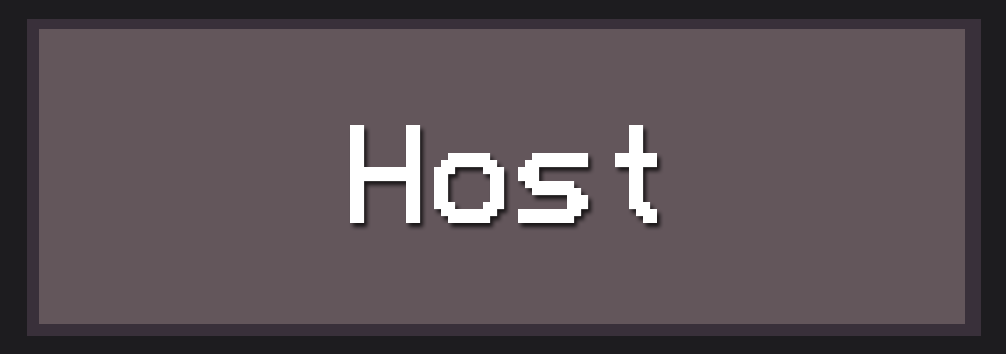
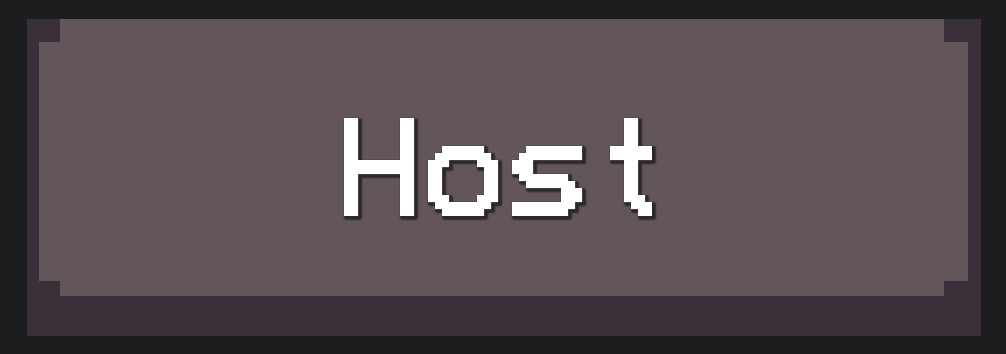
Did a not so shitty art job.

Changed region(s): [[0.0308, 0.7768, 0.9861, 0.9322], [0.339, 0.3107, 0.6779, 0.6525], [0.0308, 0.0311, 0.9861, 0.1243]]

diff --git a/core/src/com/csharp/game/screens/ui/screens/JoinGameScreen.java b/core/src/com/csharp/game/screens/ui/screens/JoinGameScreen.java
@@ -8,6 +8,7 @@ import com.badlogic.gdx.graphics.g2d.freetype.FreeTypeFontGenerator;
 import com.badlogic.gdx.scenes.scene2d.Actor;
 import com.badlogic.gdx.scenes.scene2d.InputEvent;
 import com.badlogic.gdx.scenes.scene2d.InputListener;
+import com.badlogic.gdx.scenes.scene2d.ui.Image;
 import com.badlogic.gdx.scenes.scene2d.ui.ImageButton;
 import com.badlogic.gdx.scenes.scene2d.ui.TextField;
 import com.badlogic.gdx.scenes.scene2d.utils.ChangeListener;
@@ -31,7 +32,7 @@ public class JoinGameScreen extends MenuScreen implements IMenuScreen {
 
     @Override
     public void loadTextures() {
-        textures = new HashMap<>();
+        textures.put("gameTitle", new Texture(Gdx.files.internal("menu/GameTitle.png")));
         textures.put("menuItemBack_default", new Texture(Gdx.files.internal("keys/EscKey_default.png")));
         textures.put("menuItemBack_pressed", new Texture(Gdx.files.internal("keys/EscKey_pressed.png")));
         textures.put("joinButton_default", new Texture(Gdx.files.internal("menu/joinButton_default.png")));
@@ -55,11 +56,16 @@ public class JoinGameScreen extends MenuScreen implements IMenuScreen {
         joinButtonStyle.down = new TextureRegionDrawable(new TextureRegion(textures.get("joinButton_pressed")));
         joinButtonStyle.over = new TextureRegionDrawable(new TextureRegion(textures.get("joinButton_pressed")));
 
+        final com.badlogic.gdx.scenes.scene2d.ui.Image titleImage = new Image(textures.get("gameTitle"));
         final TextField playerNameField = new TextField("Enter name", defaultTextFieldStyle);
         final TextField ipField = new TextField("IP address", defaultTextFieldStyle);
         final TextField gamekeyField = new TextField("Gamekey", defaultTextFieldStyle);
         final ImageButton backButton = new ImageButton(backButtonStyle);
         final ImageButton joinButton = new ImageButton(joinButtonStyle);
+
+        playerNameField.setAlignment(Align.center);
+        ipField.setAlignment(Align.center);
+        gamekeyField.setAlignment(Align.center);
 
         playerNameField.addListener(new InputListener() {
             public boolean touchDown(InputEvent event, float x, float y, int pointer, int button) {
@@ -108,9 +114,10 @@ public class JoinGameScreen extends MenuScreen implements IMenuScreen {
         });
 
         table.top().add(backButton).size(80, 50).expandX().align(Align.right).padTop(20).padRight(20).row();
-        table.add(playerNameField).padTop(200).row();
+        table.top().add(titleImage).padTop(20).padBottom(10).row();
+        table.add(playerNameField).padTop(140).row();
         table.add(ipField).padTop(20).row();
         table.add(gamekeyField).pad(20).row();
-        table.add(joinButton).size(150, 60).padTop(50);
+        table.add(joinButton).size(100, 40).padTop(20);
     }
 }

diff --git a/core/src/com/csharp/game/screens/ui/screens/SecondMenuScreen.java b/core/src/com/csharp/game/screens/ui/screens/SecondMenuScreen.java
@@ -29,7 +29,7 @@ public class SecondMenuScreen extends MenuScreen implements IMenuScreen {
 
     @Override
     public void loadTextures() {
-        textures = new HashMap<>();
+        textures.put("gameTitle", new Texture(Gdx.files.internal("menu/GameTitle.png")));
         textures.put("menuItemBack_default", new Texture(Gdx.files.internal("keys/EscKey_default.png")));
         textures.put("menuItemBack_pressed", new Texture(Gdx.files.internal("keys/EscKey_pressed.png")));
         textures.put("joinGameButton_default", new Texture(Gdx.files.internal("menu/joinGameButton_default.png")));
@@ -58,6 +58,7 @@ public class SecondMenuScreen extends MenuScreen implements IMenuScreen {
         backButtonStyle.down = new TextureRegionDrawable(new TextureRegion(textures.get("menuItemBack_pressed")));
         backButtonStyle.over = new TextureRegionDrawable(new TextureRegion(textures.get("menuItemBack_pressed")));
 
+        final com.badlogic.gdx.scenes.scene2d.ui.Image titleImage = new Image(textures.get("gameTitle"));
         final ImageButton joinGameButton = new ImageButton(joinGameButtonStyle);
         final ImageButton hostGameButton = new ImageButton(hostGameButtonStyle);
         final ImageButton backButton = new ImageButton(backButtonStyle);
@@ -88,8 +89,9 @@ public class SecondMenuScreen extends MenuScreen implements IMenuScreen {
         });
 
         table.top().add(backButton).size(80, 50).expandX().align(Align.right).padTop(20).padRight(20).row();
-        table.add(text).padTop(150).row();
-        table.add(joinGameButton).size(300, 100).padTop(50).row();
-        table.add(hostGameButton).size(300, 100).padTop(20);
+        table.top().add(titleImage).padTop(20).padBottom(10).row();
+        table.add(text).padTop(120).row();
+        table.add(joinGameButton).size(200, 65).padTop(50).row();
+        table.add(hostGameButton).size(200, 65).padTop(20);
     }
 }

diff --git a/core/src/com/csharp/game/screens/ui/screens/MainMenuScreen.java b/core/src/com/csharp/game/screens/ui/screens/MainMenuScreen.java
@@ -35,7 +35,6 @@ public class MainMenuScreen extends MenuScreen implements IMenuScreen {
 
     @Override
     public void loadTextures() {
-        textures = new HashMap<>();
         textures.put("gameTitle", new Texture(Gdx.files.internal("menu/GameTitle.png")));
         textures.put("menuItemSP_default", new Texture(Gdx.files.internal("menu/menuItemSP_default.png")));
         textures.put("menuItemSP_pressed", new Texture(Gdx.files.internal("menu/menuItemSP_pressed.png")));
@@ -104,7 +103,7 @@ public class MainMenuScreen extends MenuScreen implements IMenuScreen {
         });
 
         //Drawing the UI components (this is in chronological order)
-        table.top().padTop(20);
+        table.top().padTop(90).row();
         table.add(titleImage).row();
         table.add(creatorsLabel0).pad(10).row();
         table.add(creatorsLabel1).row();

diff --git a/core/src/com/csharp/game/screens/ui/screens/MenuScreen.java b/core/src/com/csharp/game/screens/ui/screens/MenuScreen.java
@@ -10,6 +10,8 @@ import com.badlogic.gdx.scenes.scene2d.ui.Table;
 import com.badlogic.gdx.utils.viewport.FillViewport;
 import com.badlogic.gdx.utils.viewport.Viewport;
 import com.csharp.game.RythemDiscord;
+
+import java.util.HashMap;
 import java.util.Map;
 
 public abstract class MenuScreen implements Screen {
@@ -106,10 +108,11 @@ public abstract class MenuScreen implements Screen {
         pixmap.fill();
         skin.add("white", new Texture(pixmap));
         skin.add("default", new BitmapFont());
+        textures = new HashMap<>();
 
         //table preferences
         table.setFillParent(true);
         stage.addActor(table);
-        table.setDebug(true); //debugging the ui
+        //table.setDebug(true); //debugging the ui
     }
 }

diff --git a/core/src/com/csharp/game/screens/ui/screens/LoginScreen.java b/core/src/com/csharp/game/screens/ui/screens/LoginScreen.java
@@ -30,7 +30,6 @@ public class LoginScreen extends MenuScreen implements IMenuScreen
     public void loadTextures()
     {
         //Alle textures inladen
-        textures = new HashMap<String, Texture>();
         textures.put("gameTitle", new Texture(Gdx.files.internal("menu/GameTitle.png")));
         textures.put("menuItemLogin_default", new Texture(Gdx.files.internal("menu/menuItemLogin_default.png")));
         textures.put("menuItemLogin_pressed", new Texture(Gdx.files.internal("menu/menuItemLogin_pressed.png")));

diff --git a/core/src/com/csharp/game/screens/ui/screens/LobbyScreen.java b/core/src/com/csharp/game/screens/ui/screens/LobbyScreen.java
@@ -10,6 +10,8 @@ public class LobbyScreen extends MenuScreen implements IMenuScreen {
 
     public LobbyScreen(RythemDiscord game) {
         super(game);
+        loadTextures();
+        createUiComponents();
     }
 
     @Override
